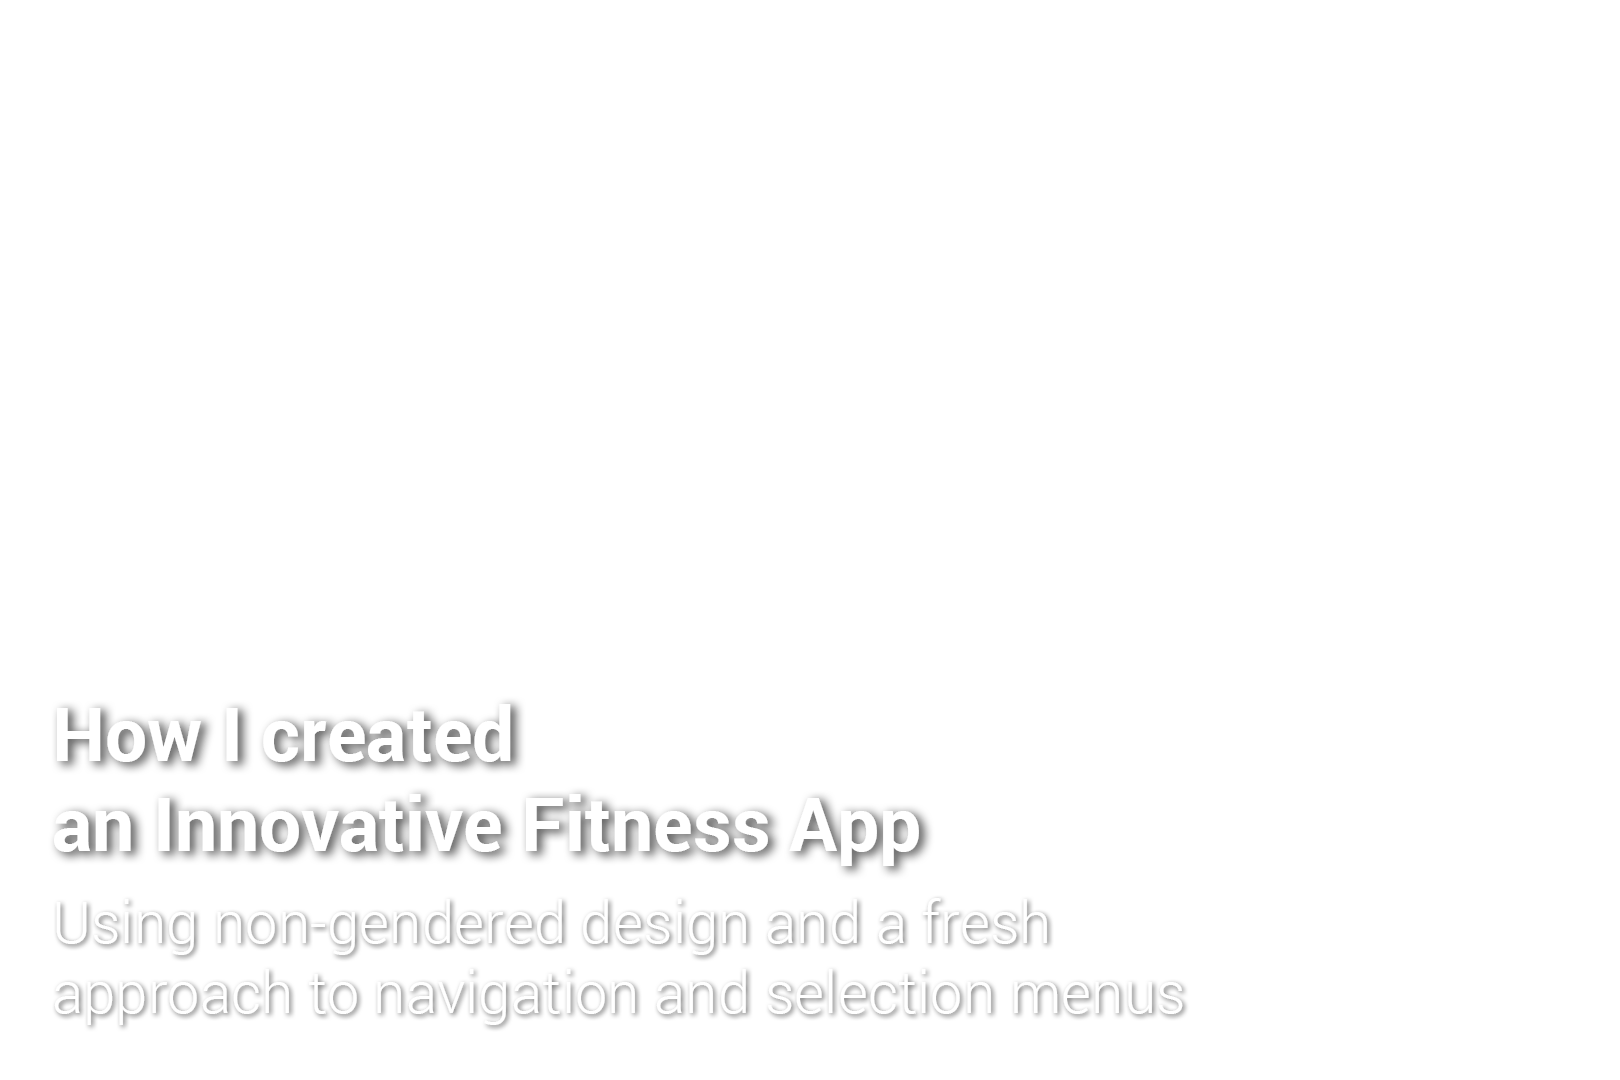
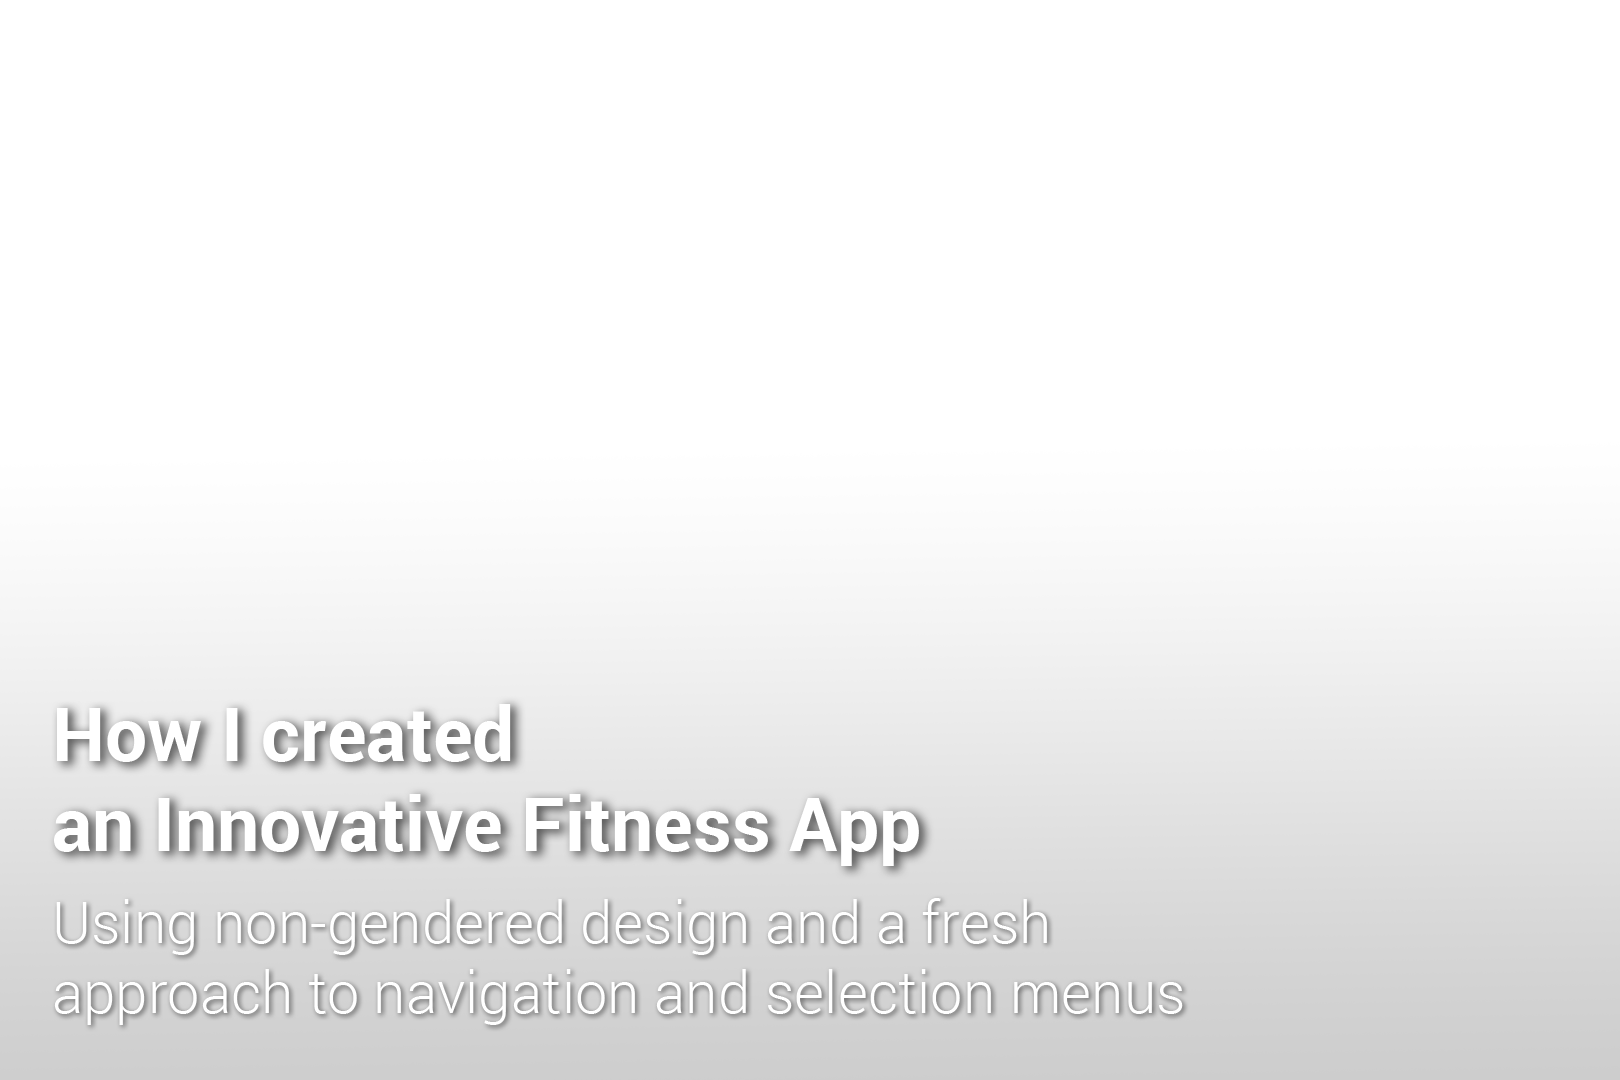
Improved layout and imagery

Changed region(s): [[0.0, 0.7028, 1.0, 1.0]]

diff --git a/customFit.html b/customFit.html
@@ -60,7 +60,6 @@
     <!--Header-->
     <div id="header">
       <img class="storyHeader" src="imgs/customFitHeader.png" alt="backgroundImage" />
-      <div class="storyOverlay"></div>
       <img class="storyWords" src="imgs/customFitWords.png" alt="" />
     </div>
 
@@ -159,7 +158,7 @@
             <br /><br />
           </p>
           <a href="index.html#designs" class="call solid">
-            <img id="goArrow" src="imgs/goDark.png" width="20" alt="" style="transform: rotate(180deg);" />
+            <img class="goArrow" src="imgs/goDark.png" width="20" alt="" style="transform: rotate(180deg);" />
             <p>Back</p>
           </a>
         </div>

diff --git a/css/stories.css b/css/stories.css
@@ -26,7 +26,6 @@ p {
   position: relative;
   width: 100%;
   margin: auto;
-  min-height: none;
 }
 
 .storyWords {
@@ -36,15 +35,6 @@ p {
   width: 100%;
   margin: auto;
   min-height: none;
-}
-
-.storyOverlay {
-  position: absolute;
-  top: 0;
-  left: 0;
-  height: 100%;
-  width: 100%;
-  background-image: linear-gradient(rgba(0,0,0,0), rgba(0,0,0,0), rgba(0,0,0,0.3));
 }
 
 .smallText {
@@ -133,8 +123,9 @@ p {
   left: 48px;
 }
 
-#goArrow {
+.goArrow {
   left: 12px;
+  top: 18px;
 }
 
 @media screen and (max-width: 1600px) {

diff --git a/index.html b/index.html
@@ -559,7 +559,7 @@
             </p>
             <a href="customFit.html" class="call solid">
               <p>Read the story!</p>
-              <img id="goArrow" src="imgs/goDark.png" width="20" alt="" />
+              <img class="goArrow" src="imgs/goDark.png" width="20" alt="" />
             </a>
           </div>
 
